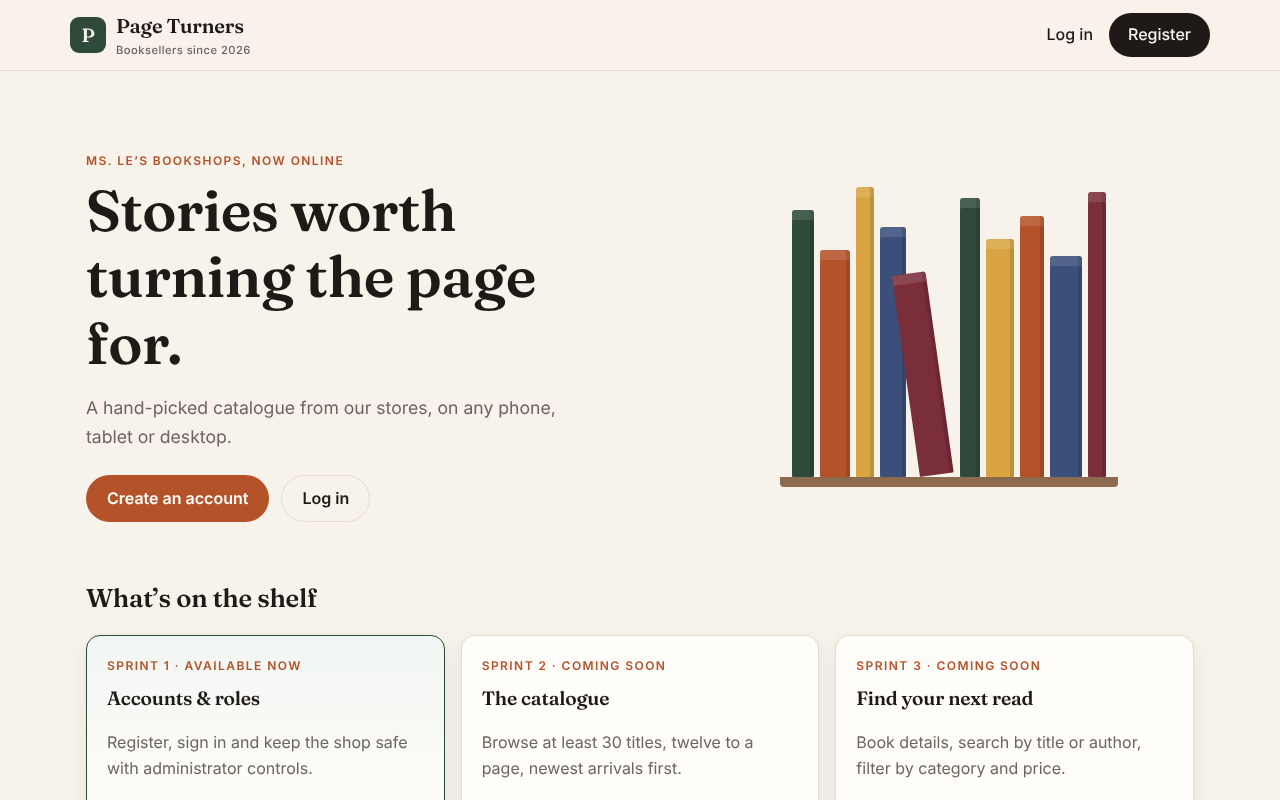
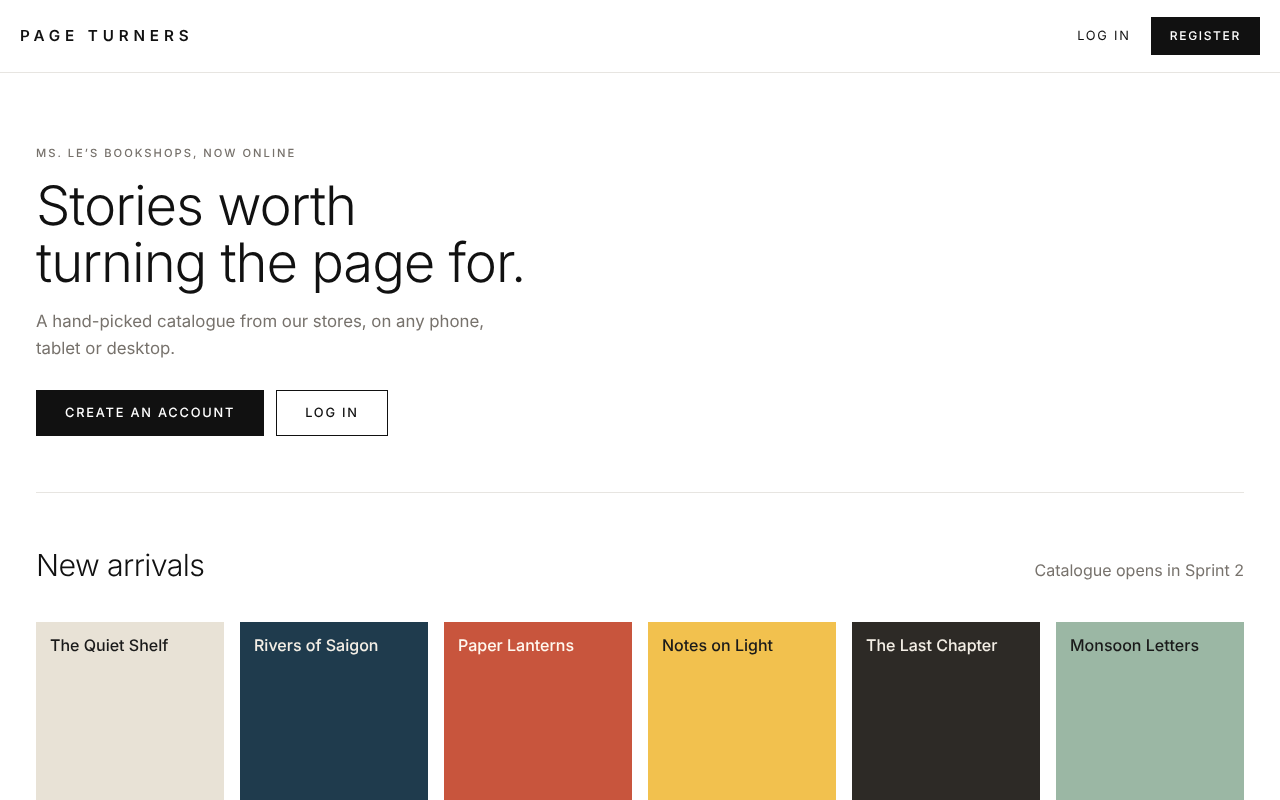
feat(F1): switch UI to minimal product-first direction
Direction A chosen by the team from Awwwards e-commerce honorees
(Polene-style): white background, Inter light headings, square black
buttons, underline inputs, CSS placeholder cover grid for upcoming
catalogue. Unit 16/16 and e2e 18/18 pass.

Refs: P06

Claude-Session: https://claude.ai/code/session_018dPQXAbe9nEc4NmUbYrVzF

diff --git a/app/src/app/globals.css b/app/src/app/globals.css
@@ -1,112 +1,103 @@
+/* Direction A – minimal, product-first (inspired by Awwwards e-commerce honorees such as Polène). */
 :root {
-  --paper: #f7f2ea; --surface: #fffdf9; --ink: #1f1a17; --muted: #6e645c; --line: #e6dccf;
-  --accent: #b4532a; --accent-ink: #fffdf9; --forest: #2f4a3a;
-  --error: #b42318; --success: #1f7a4d;
-  --spine-1: #2f4a3a; --spine-2: #b4532a; --spine-3: #d9a441; --spine-4: #3b4f7a; --spine-5: #7a2e3a;
-  --radius: 14px; --shadow: 0 1px 2px rgba(31,26,23,.06), 0 8px 24px rgba(31,26,23,.06);
+  --bg: #ffffff; --soft: #f6f5f3; --ink: #111111; --muted: #77726c; --line: #e7e5e1;
+  --accent: #111111; --error: #b42318; --success: #1f7a4d;
 }
 * { box-sizing: border-box; }
 html { -webkit-text-size-adjust: 100%; }
-body { margin: 0; font-family: var(--font-sans, system-ui, sans-serif); background: var(--paper); color: var(--ink); line-height: 1.6; }
-h1, h2, h3, .brand, blockquote, .stat-value, .brand-foot { font-family: var(--font-serif, Georgia, serif); font-weight: 600; letter-spacing: -.01em; }
-h1 { font-size: clamp(1.8rem, 4vw, 2.6rem); line-height: 1.15; margin: 0 0 8px; }
-h2 { font-size: 1.6rem; margin: 0 0 16px; }
-h3 { font-size: 1.2rem; margin: 4px 0; }
-a { color: var(--accent); }
-.eyebrow { text-transform: uppercase; letter-spacing: .12em; font-size: .75rem; font-weight: 600; color: var(--accent); margin: 0 0 8px; }
+body { margin: 0; font-family: var(--font-sans, system-ui, sans-serif); background: var(--bg); color: var(--ink); line-height: 1.6; font-weight: 400; }
+h1, h2, h3 { font-weight: 300; letter-spacing: -.02em; margin: 0 0 12px; }
+h1 { font-size: clamp(2rem, 5vw, 3.4rem); line-height: 1.05; }
+h2 { font-size: clamp(1.4rem, 3vw, 1.9rem); }
+h3 { font-size: 1.1rem; font-weight: 500; letter-spacing: 0; }
+a { color: inherit; }
+.eyebrow { text-transform: uppercase; letter-spacing: .18em; font-size: .7rem; font-weight: 500; color: var(--muted); margin: 0 0 14px; }
 .muted { color: var(--muted); }
-.lead { font-size: 1.1rem; color: var(--muted); max-width: 46ch; }
+.lead { font-size: 1.05rem; color: var(--muted); max-width: 44ch; }
 
 /* Header & footer */
 .topbar { position: sticky; top: 0; z-index: 10; display: flex; flex-wrap: wrap; gap: 12px; align-items: center; justify-content: space-between;
-  padding: 10px max(16px, calc((100vw - 1140px) / 2)); background: rgba(247,242,234,.92); backdrop-filter: blur(8px); border-bottom: 1px solid var(--line); }
-.brand { display: inline-flex; align-items: center; gap: 10px; text-decoration: none; color: var(--ink); font-size: 1.25rem; }
-.brand small { display: block; font-family: var(--font-sans); font-size: .7rem; font-weight: 500; color: var(--muted); letter-spacing: .04em; }
-.brand-mark { display: grid; place-items: center; width: 36px; height: 36px; border-radius: 9px; background: var(--forest); color: var(--paper); font-size: 1.2rem; }
-.topbar nav { display: flex; flex-wrap: wrap; gap: 16px; align-items: center; }
-.topbar nav a { color: var(--ink); text-decoration: none; font-weight: 500; min-height: 44px; display: inline-flex; align-items: center; }
-.topbar nav a:hover { color: var(--accent); }
-.who { color: var(--muted); }
-.container { max-width: 1140px; margin: 0 auto; padding: 24px 16px 48px; }
-.footer { display: flex; flex-wrap: wrap; gap: 8px 16px; justify-content: space-between; max-width: 1140px; margin: 0 auto; padding: 24px 16px; border-top: 1px solid var(--line); color: var(--muted); font-size: .9rem; }
-.brand-foot { color: var(--ink); }
+  padding: 14px max(16px, calc((100vw - 1240px) / 2)); background: rgba(255,255,255,.94); backdrop-filter: blur(10px); border-bottom: 1px solid var(--line); }
+.brand { text-decoration: none; font-weight: 600; letter-spacing: .32em; font-size: .95rem; }
+.topbar nav { display: flex; flex-wrap: wrap; gap: 20px; align-items: center; }
+.topbar nav a, .topbar nav button { font-size: .8rem; text-transform: uppercase; letter-spacing: .14em; text-decoration: none; min-height: 44px; display: inline-flex; align-items: center; }
+.who { color: var(--muted); font-size: .85rem; }
+.container { max-width: 1240px; margin: 0 auto; padding: 32px 16px 64px; }
+.footer { display: flex; flex-wrap: wrap; gap: 8px 16px; justify-content: space-between; max-width: 1240px; margin: 0 auto; padding: 28px 16px; border-top: 1px solid var(--line); color: var(--muted); font-size: .8rem; letter-spacing: .04em; }
+.brand-foot { color: var(--ink); letter-spacing: .32em; font-weight: 600; }
 
 /* Buttons */
-button, .btn, .btn-ghost, .btn-pill { font: inherit; font-weight: 600; min-height: 44px; padding: 10px 20px; border-radius: 999px; border: 1px solid transparent;
-  display: inline-flex; align-items: center; justify-content: center; gap: 8px; cursor: pointer; text-decoration: none; transition: transform .15s, background .15s; }
-button, .btn { background: var(--accent); color: var(--accent-ink); }
-button:hover, .btn:hover { background: #9c4422; }
-button:active, .btn:active { transform: translateY(1px); }
-button:disabled { opacity: .6; cursor: default; }
-.btn-ghost { background: transparent; color: var(--ink); border-color: var(--line); }
-.btn-ghost:hover { background: var(--surface); }
-.topbar nav .btn-pill { background: var(--ink); color: var(--paper); padding: 8px 18px; }
-button.danger { background: transparent; color: var(--error); border-color: #f1c7c2; }
-button.danger:hover { background: #fdf0ee; }
-.actions { display: flex; flex-wrap: wrap; gap: 12px; margin-top: 24px; }
+button, .btn, .btn-ghost, .btn-pill { font: inherit; font-size: .8rem; font-weight: 500; text-transform: uppercase; letter-spacing: .14em; min-height: 46px; padding: 12px 28px;
+  border-radius: 0; border: 1px solid var(--ink); display: inline-flex; align-items: center; justify-content: center; cursor: pointer; text-decoration: none; transition: background .2s, color .2s; }
+button, .btn { background: var(--ink); color: #fff; }
+button:hover, .btn:hover { background: #fff; color: var(--ink); }
+button:disabled { opacity: .5; cursor: default; }
+.btn-ghost { background: transparent; color: var(--ink); }
+.btn-ghost:hover { background: var(--ink); color: #fff; }
+.topbar nav .btn-pill, .topbar nav .btn-ghost { min-height: 38px; padding: 6px 18px; font-size: .75rem; }
+.topbar nav .btn-pill { background: var(--ink); color: #fff; }
+button.danger { background: transparent; color: var(--error); border-color: var(--error); min-height: 38px; padding: 6px 16px; }
+button.danger:hover { background: var(--error); color: #fff; }
+.actions { display: flex; flex-wrap: wrap; gap: 12px; margin-top: 28px; }
 
 /* Cards & forms */
-.card { background: var(--surface); border: 1px solid var(--line); border-radius: var(--radius); padding: 20px; box-shadow: var(--shadow); }
-.form { display: grid; gap: 14px; }
-.form h2 { font-size: 1.3rem; margin: 0; }
+.card { background: var(--bg); border: 1px solid var(--line); padding: 24px; }
+.form { display: grid; gap: 18px; }
+.form h2 { font-size: 1.3rem; }
 .field { display: grid; gap: 6px; }
-label { font-weight: 600; font-size: .9rem; }
-input, select { font: inherit; padding: 10px 14px; min-height: 46px; border: 1px solid var(--line); border-radius: 10px; width: 100%; background: #fff; color: var(--ink); }
-input:focus, select:focus { outline: 2px solid var(--accent); outline-offset: 1px; border-color: transparent; }
-input[aria-invalid="true"] { border-color: var(--error); background: #fffafa; }
-.error { color: var(--error); margin: 0; font-size: .875rem; }
-.banner { padding: 10px 14px; background: #fdf0ee; border-radius: 10px; }
-.success { color: var(--success); margin: 0; padding: 10px 14px; background: #edf7f1; border-radius: 10px; }
-
-/* Shelf illustration */
-.shelf { display: flex; align-items: flex-end; gap: 6px; height: 220px; padding: 0 12px; border-bottom: 10px solid #8b6a4e; border-radius: 0 0 4px 4px; }
-.spine { display: block; border-radius: 3px 3px 1px 1px; box-shadow: inset -4px 0 0 rgba(0,0,0,.12), inset 0 10px 0 rgba(255,255,255,.12); flex-shrink: 0; }
-.spine.tilt { transform: rotate(-8deg); transform-origin: bottom left; margin-left: 8px; }
+label { font-size: .72rem; text-transform: uppercase; letter-spacing: .14em; color: var(--muted); }
+input, select { font: inherit; padding: 10px 0; min-height: 46px; border: 0; border-bottom: 1px solid #c9c5bf; border-radius: 0; width: 100%; background: transparent; color: var(--ink); }
+input:focus, select:focus { outline: none; border-bottom-color: var(--ink); }
+input[aria-invalid="true"] { border-bottom-color: var(--error); }
+.error { color: var(--error); margin: 0; font-size: .85rem; }
+.banner { padding: 10px 14px; background: #fdf0ee; }
+.success { color: var(--success); margin: 0; padding: 10px 14px; background: #edf7f1; }
 
 /* Home */
-.hero { display: grid; gap: 32px; align-items: center; padding: 24px 0 40px; }
-.hero h1 { font-size: clamp(2.2rem, 6vw, 3.6rem); max-width: 14ch; }
-.hero-shelf { justify-self: center; height: 240px; }
-@media (min-width: 900px) { .hero { grid-template-columns: 1.2fr 1fr; padding: 56px 0; } .hero-shelf { height: 300px; } }
-.roadmap-grid { display: grid; gap: 16px; grid-template-columns: repeat(auto-fit, minmax(240px, 1fr)); }
-.roadmap-card.live { border-color: var(--forest); background: linear-gradient(180deg, #f1f6f2, var(--surface)); }
+.hero { padding: 40px 0 56px; border-bottom: 1px solid var(--line); }
+.section-head { display: flex; flex-wrap: wrap; gap: 8px 16px; align-items: baseline; justify-content: space-between; margin-bottom: 20px; }
+.arrivals { padding: 48px 0; }
+.cover-wall { display: grid; gap: 28px 16px; grid-template-columns: repeat(2, minmax(0, 1fr)); }
+@media (min-width: 640px) { .cover-wall { grid-template-columns: repeat(3, minmax(0, 1fr)); } }
+@media (min-width: 1024px) { .cover-wall { grid-template-columns: repeat(6, minmax(0, 1fr)); } }
+.cover-item { margin: 0; }
+.cover { aspect-ratio: 2 / 3; display: flex; flex-direction: column; justify-content: space-between; padding: 14px; background: var(--soft); transition: transform .3s ease; }
+.cover-item:hover .cover { transform: translateY(-4px); }
+.cover-title { font-size: 1rem; line-height: 1.2; font-weight: 500; }
+.cover-author { font-size: .7rem; text-transform: uppercase; letter-spacing: .14em; opacity: .8; }
+.cover-item figcaption { display: grid; margin-top: 10px; font-size: .85rem; }
+.roadmap { padding-top: 24px; border-top: 1px solid var(--line); }
+.roadmap-grid { display: grid; gap: 0; grid-template-columns: repeat(auto-fit, minmax(240px, 1fr)); border-top: 1px solid var(--line); }
+.roadmap-card { border: 0; border-bottom: 1px solid var(--line); padding: 24px 24px 24px 0; }
+.roadmap-card.live h3::after { content: ' ●'; color: var(--success); font-size: .7rem; vertical-align: middle; }
 
 /* Auth */
-.auth { display: grid; gap: 24px; max-width: 980px; margin: 0 auto; }
-.auth-art { display: none; background: var(--forest); color: var(--paper); border-radius: var(--radius); padding: 32px; flex-direction: column; justify-content: space-between; gap: 24px; overflow: hidden; }
-.auth-art .eyebrow { color: #e9c58a; }
-.auth-art blockquote { margin: 0; font-size: 1.5rem; line-height: 1.35; }
-.auth-art cite { display: block; margin-top: 12px; font-family: var(--font-sans); font-style: normal; font-size: .9rem; opacity: .75; }
-.auth-art .shelf { height: 160px; border-bottom-color: #c9a27a; }
-.auth-form { max-width: 440px; width: 100%; margin: 0 auto; }
-.auth-form .form { margin-top: 16px; }
-.switch { margin-top: 16px; }
-@media (min-width: 860px) { .auth { grid-template-columns: 1fr 1fr; align-items: stretch; } .auth-art { display: flex; } .auth-form { align-self: center; } }
+.auth { max-width: 420px; margin: 24px auto; }
+.auth .form { margin-top: 28px; }
+.switch { margin-top: 24px; font-size: .9rem; }
 
 /* Admin */
 .admin { display: grid; gap: 24px; }
-.admin-nav { display: flex; flex-wrap: wrap; gap: 4px 16px; align-items: center; }
+.admin-nav { display: flex; flex-wrap: wrap; gap: 4px 20px; align-items: center; }
 .admin-nav .eyebrow { width: 100%; margin: 0; }
-.admin-nav a { color: var(--ink); font-weight: 600; text-decoration: none; min-height: 44px; display: inline-flex; align-items: center; }
-.admin-nav a:hover { color: var(--accent); }
-.admin-nav .soon { color: var(--muted); font-size: .85rem; }
+.admin-nav a { font-size: .8rem; text-transform: uppercase; letter-spacing: .14em; text-decoration: none; min-height: 44px; display: inline-flex; align-items: center; }
+.admin-nav .soon { color: var(--muted); font-size: .75rem; }
 @media (min-width: 900px) {
   .admin { grid-template-columns: 200px 1fr; }
-  .admin-nav { flex-direction: column; align-items: stretch; gap: 2px; position: sticky; top: 80px; align-self: start; }
-  .admin-nav .soon { padding: 6px 0; }
+  .admin-nav { flex-direction: column; align-items: stretch; gap: 0; position: sticky; top: 90px; align-self: start; }
+  .admin-nav .soon { padding: 8px 0; }
 }
 .admin-main { min-width: 0; }
-.stats { display: grid; gap: 12px; grid-template-columns: repeat(auto-fit, minmax(150px, 1fr)); margin: 20px 0; }
-.stat { display: grid; gap: 2px; }
-.stat-value { font-size: 2.2rem; line-height: 1; }
-.stat-label { color: var(--muted); font-size: .9rem; }
-.grid-2 { display: grid; gap: 16px; grid-template-columns: 1fr; margin-top: 16px; }
+.stats { display: grid; gap: 0; grid-template-columns: repeat(auto-fit, minmax(150px, 1fr)); margin: 24px 0; border-top: 1px solid var(--line); border-left: 1px solid var(--line); }
+.stat { display: grid; gap: 4px; border-top: 0; border-left: 0; }
+.stat-value { font-size: 2.4rem; font-weight: 300; line-height: 1; }
+.stat-label { color: var(--muted); font-size: .72rem; text-transform: uppercase; letter-spacing: .14em; }
+.grid-2 { display: grid; gap: 24px; grid-template-columns: 1fr; margin-top: 16px; }
 .grid-2 > .form { max-width: 560px; }
-.table-wrap { overflow-x: auto; padding: 8px 12px; }
-table { width: 100%; border-collapse: collapse; font-size: .95rem; }
-th { font-size: .75rem; text-transform: uppercase; letter-spacing: .08em; color: var(--muted); }
-th, td { text-align: left; padding: 12px 8px; border-bottom: 1px solid var(--line); vertical-align: middle; }
-tr:last-child td { border-bottom: 0; }
-.badge { padding: 3px 10px; border-radius: 999px; font-size: .8rem; font-weight: 600; }
-.badge.active { background: #edf7f1; color: var(--success); }
-.badge.locked { background: #fdf0ee; color: var(--error); }
+.table-wrap { overflow-x: auto; padding: 0; border: 0; }
+table { width: 100%; border-collapse: collapse; font-size: .92rem; }
+th { font-size: .7rem; font-weight: 500; text-transform: uppercase; letter-spacing: .14em; color: var(--muted); }
+th, td { text-align: left; padding: 14px 10px; border-bottom: 1px solid var(--line); vertical-align: middle; }
+.badge { font-size: .72rem; text-transform: uppercase; letter-spacing: .12em; }
+.badge.active { color: var(--success); }
+.badge.locked { color: var(--error); }

diff --git a/app/src/app/page.js b/app/src/app/page.js
@@ -1,5 +1,5 @@
 import Link from 'next/link';
-import Shelf from '@/components/Shelf';
+import CoverWall from '@/components/CoverWall';
 import { getCurrentUser } from '@/lib/current-user';
 
 const ROADMAP = [
@@ -15,7 +15,7 @@ export default async function HomePage() {
       <section className="hero">
         <div className="hero-copy">
           <p className="eyebrow">Ms. Le’s bookshops, now online</p>
-          <h1>Stories worth turning the page for.</h1>
+          <h1>Stories worth<br />turning the page for.</h1>
           <p className="lead">
             {user
               ? `Welcome back, ${user.name}. You are signed in as ${user.role === 'admin' ? 'an Administrator' : 'a Customer'}.`
@@ -26,7 +26,12 @@ export default async function HomePage() {
             {!user && <><Link href="/register" className="btn">Create an account</Link><Link href="/login" className="btn-ghost">Log in</Link></>}
           </div>
         </div>
-        <Shelf className="hero-shelf" />
+        
+      </section>
+
+      <section className="arrivals">
+        <div className="section-head"><h2>New arrivals</h2><span className="muted">Catalogue opens in Sprint 2</span></div>
+        <CoverWall />
       </section>
 
       <section className="roadmap">

diff --git a/app/src/app/layout.js b/app/src/app/layout.js
@@ -1,10 +1,9 @@
 import Link from 'next/link';
-import { Fraunces, Inter } from 'next/font/google';
+import { Inter } from 'next/font/google';
 import './globals.css';
 import { getCurrentUser } from '@/lib/current-user';
 import { logoutAction } from './actions';
 
-const serif = Fraunces({ subsets: ['latin', 'vietnamese'], variable: '--font-serif', display: 'swap' });
 const sans = Inter({ subsets: ['latin', 'vietnamese'], variable: '--font-sans', display: 'swap' });
 
 export const metadata = {
@@ -15,12 +14,11 @@ export const metadata = {
 export default async function RootLayout({ children }) {
   const user = await getCurrentUser();
   return (
-    <html lang="en" className={`${serif.variable} ${sans.variable}`}>
+    <html lang="en" className={sans.variable}>
       <body>
         <header className="topbar">
           <Link href="/" className="brand">
-            <span className="brand-mark" aria-hidden="true">P</span>
-            <span>Page Turners<small>Booksellers since 2026</small></span>
+            PAGE TURNERS
           </Link>
           <nav>
             {user ? (

diff --git a/app/src/components/CoverWall.js b/app/src/components/CoverWall.js
@@ -1,0 +1,25 @@
+// Placeholder book covers drawn with CSS until real covers arrive with F2 seed data.
+const COVERS = [
+  { t: 'The Quiet Shelf', a: 'Linh Tran', bg: '#e8e2d6', fg: '#1a1a1a' },
+  { t: 'Rivers of Saigon', a: 'Minh Nguyen', bg: '#1f3b4d', fg: '#f4efe6' },
+  { t: 'Paper Lanterns', a: 'Hoa Le', bg: '#c8553d', fg: '#fff8ef' },
+  { t: 'Notes on Light', a: 'An Pham', bg: '#f2c14e', fg: '#1a1a1a' },
+  { t: 'The Last Chapter', a: 'Bao Vo', bg: '#2d2a26', fg: '#f4efe6' },
+  { t: 'Monsoon Letters', a: 'Thu Do', bg: '#9bb7a4', fg: '#1a1a1a' },
+];
+
+export default function CoverWall() {
+  return (
+    <div className="cover-wall" aria-hidden="true">
+      {COVERS.map((c) => (
+        <figure key={c.t} className="cover-item">
+          <div className="cover" style={{ background: c.bg, color: c.fg }}>
+            <span className="cover-title">{c.t}</span>
+            <span className="cover-author">{c.a}</span>
+          </div>
+          <figcaption><span>{c.t}</span><span className="muted">{c.a}</span></figcaption>
+        </figure>
+      ))}
+    </div>
+  );
+}

diff --git a/app/src/components/AuthShell.js b/app/src/components/AuthShell.js
@@ -1,18 +1,10 @@
-import Shelf from './Shelf';
-
 export default function AuthShell({ title, lead, children }) {
   return (
     <section className="auth">
-      <aside className="auth-art">
-        <p className="eyebrow">Page Turners</p>
-        <blockquote>“A reader lives a thousand lives before he dies.”<cite>George R. R. Martin</cite></blockquote>
-        <Shelf />
-      </aside>
-      <div className="auth-form">
-        <h1>{title}</h1>
-        {lead && <p className="muted">{lead}</p>}
-        {children}
-      </div>
+      <p className="eyebrow">Page Turners</p>
+      <h1>{title}</h1>
+      {lead && <p className="muted">{lead}</p>}
+      {children}
     </section>
   );
 }

diff --git a/app/src/app/forbidden.js b/app/src/app/forbidden.js
@@ -2,7 +2,7 @@ import Link from 'next/link';
 
 export default function Forbidden() {
   return (
-    <section className="card" style={{ maxWidth: 520, margin: '40px auto', textAlign: 'center' }}>
+    <section className="auth" style={{ textAlign: 'center' }}>
       <p className="eyebrow">Error 403</p>
       <h1>Access denied</h1>
       <p className="muted">You do not have permission to open this page.</p>

diff --git a/pm/ai-usage-log.md b/pm/ai-usage-log.md
@@ -6,4 +6,4 @@
 |---|---|---|---|---|---|
 | 27/10/2026 | Hồ Du Tuấn Đạt | Claude | Phân tích đề và CR-06, dựng cấu trúc repo, roadmap, skill `next`/`status` | `CLAUDE.md`, `README.md`, `plan/*`, `.claude/skills/*`, `docs/knowledge/07_*` | TBD |
 | 30/10/2026 | Hồ Du Tuấn Đạt | Claude | Soạn nháp Master Plan, PMP v1.0 (7 phần), Product Backlog v1.0 (GWT), DoR, khung Planning Poker log, CR-06 impact analysis, Sprint Backlog S1, test case F1, Sprint Report S1; viết code F1 (Next.js) và test; script xuất file nộp | `pm/pmp/*`, `pm/backlog/*`, `pm/change/*`, `pm/sprints/S1/*`, `app/*`, `tools/export_s1.py`, `deliverables/S1/*` | TBD (Chính review PR) |
-| 30/10/2026 | Hồ Du Tuấn Đạt | Claude | Tham khảo giao diện nhà sách và thiết kế lại UI các trang F1 (trang chủ, đăng ký, đăng nhập, admin) | `app/src/app/*`, `app/src/components/*`, `pm/sprints/S1/evidence/ui/*` | TBD |
+| 30/10/2026 | Hồ Du Tuấn Đạt | Claude | Tham khảo website e-commerce đạt giải Awwwards, thiết kế lại UI các trang F1 theo hướng tối giản (hướng A do Đạt chọn) (trang chủ, đăng ký, đăng nhập, admin) | `app/src/app/*`, `app/src/components/*`, `pm/sprints/S1/evidence/ui/*` | TBD |
